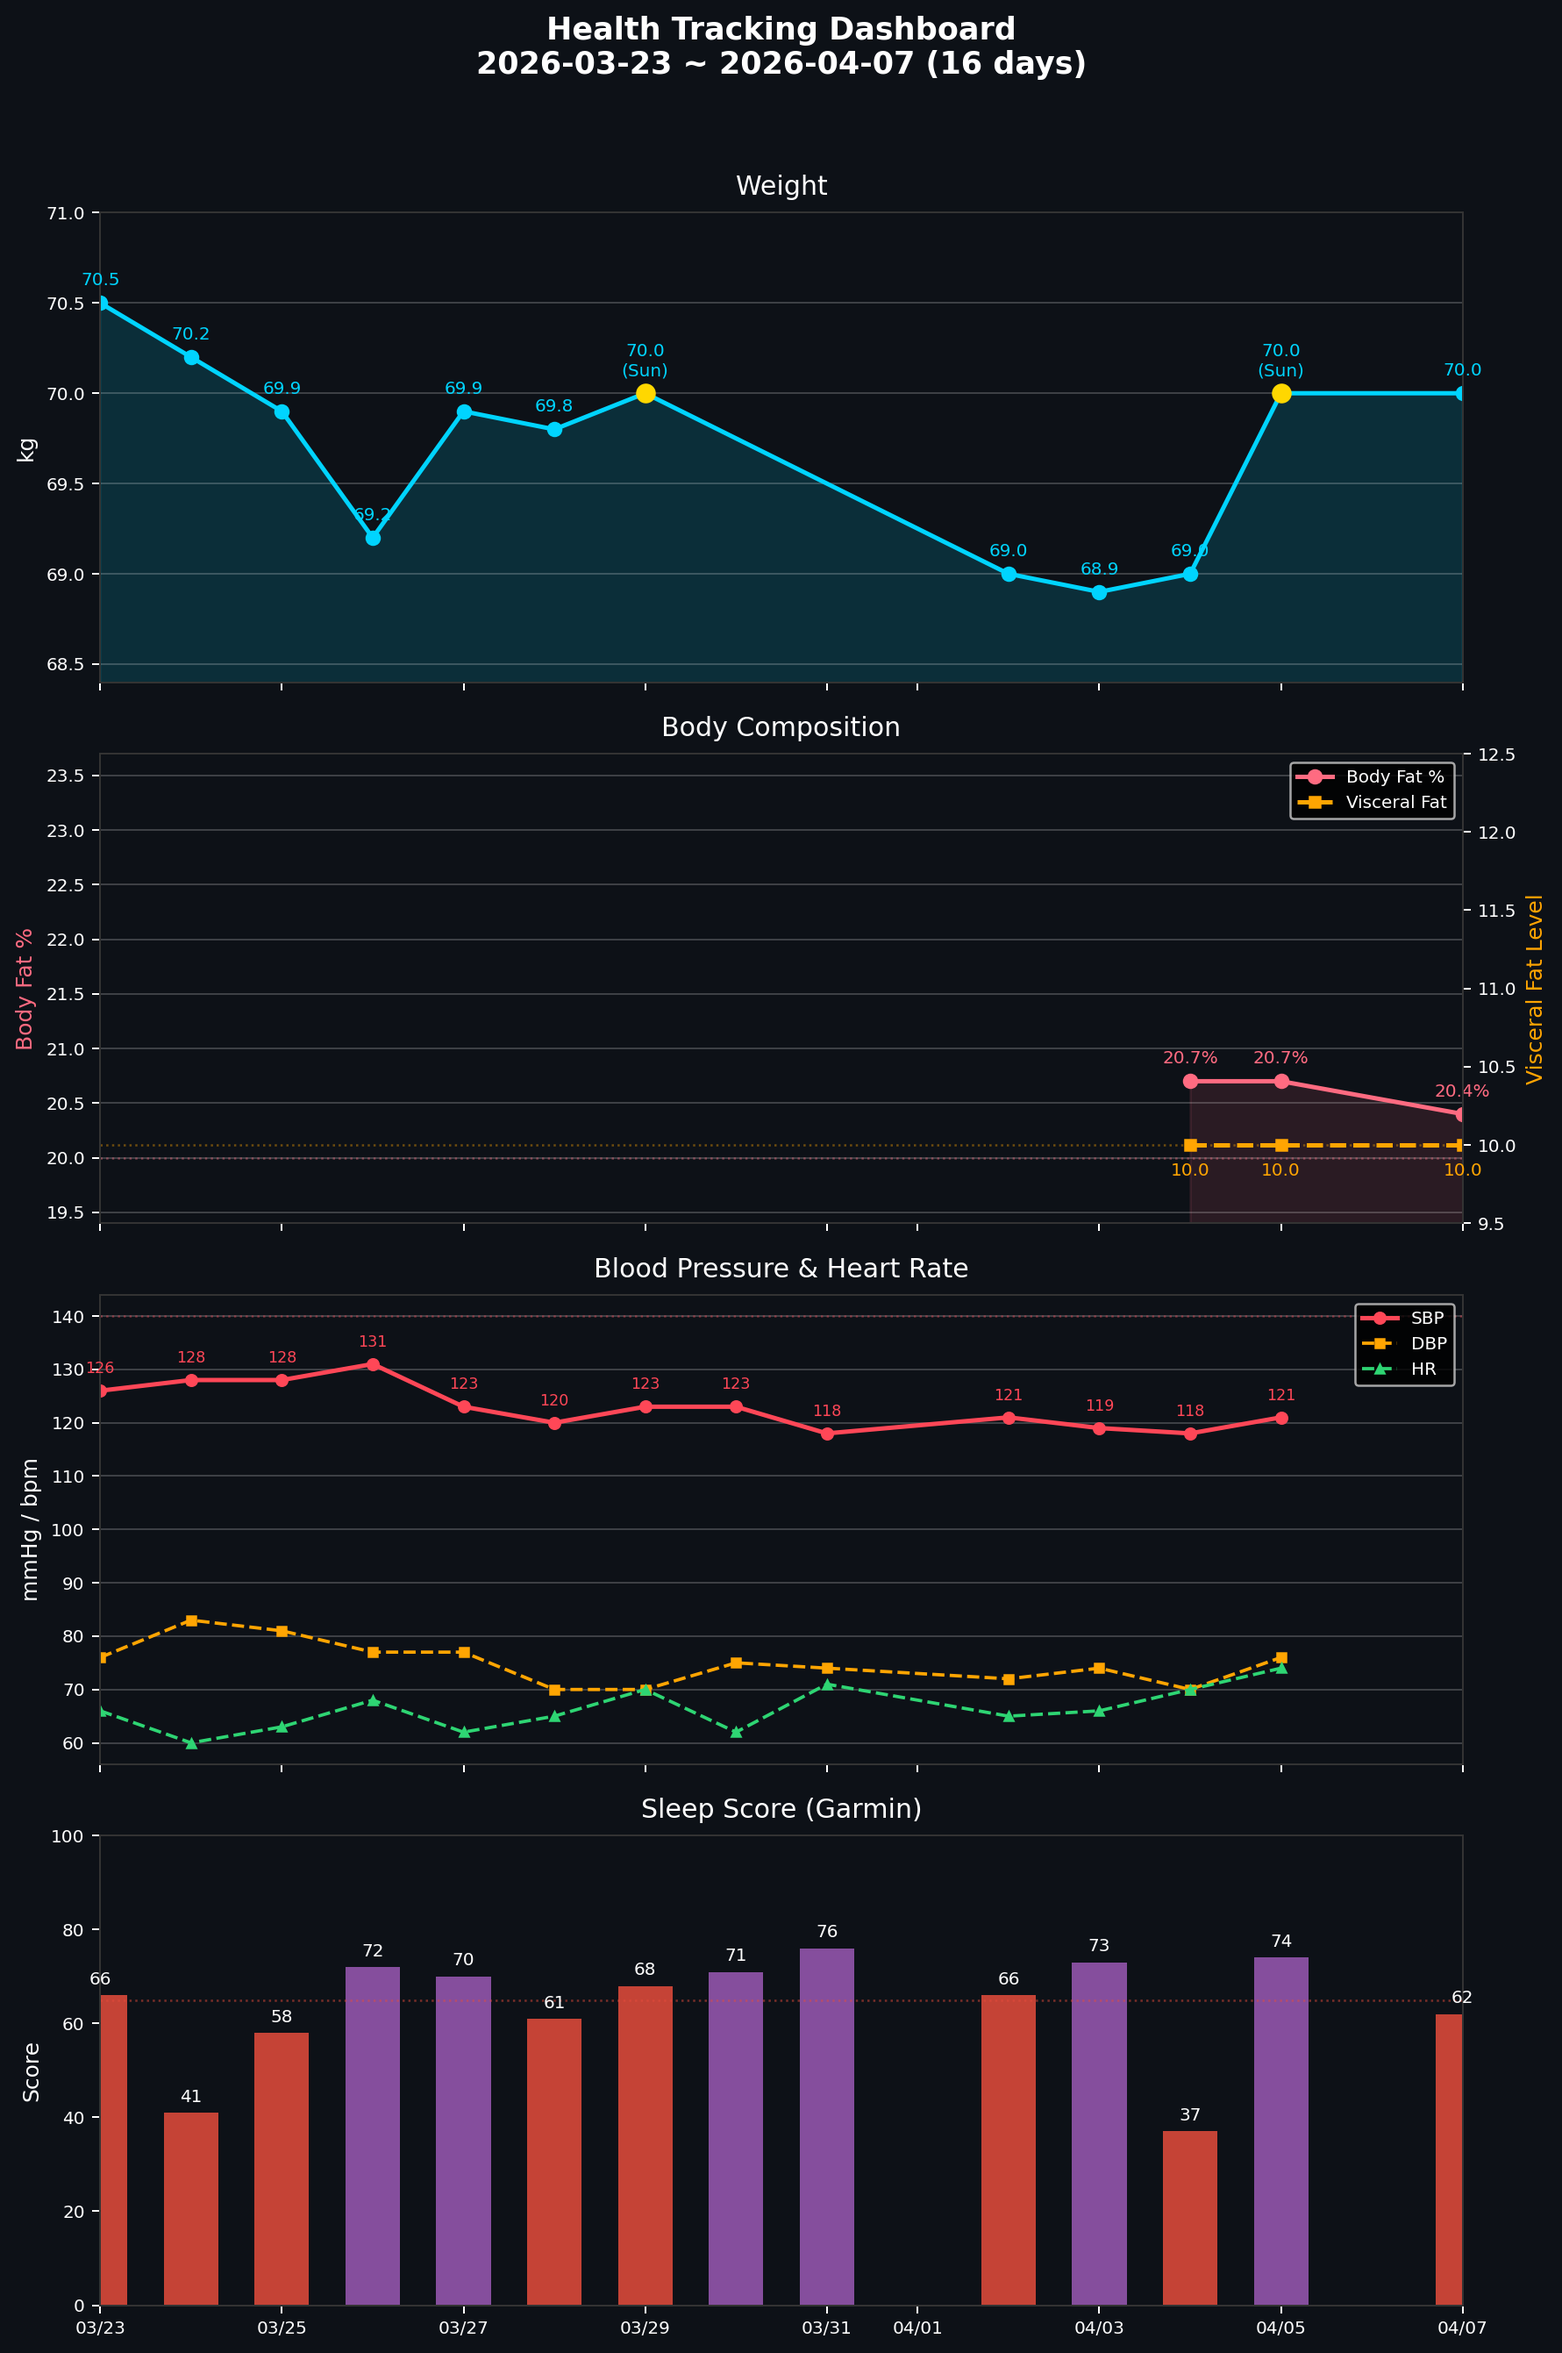
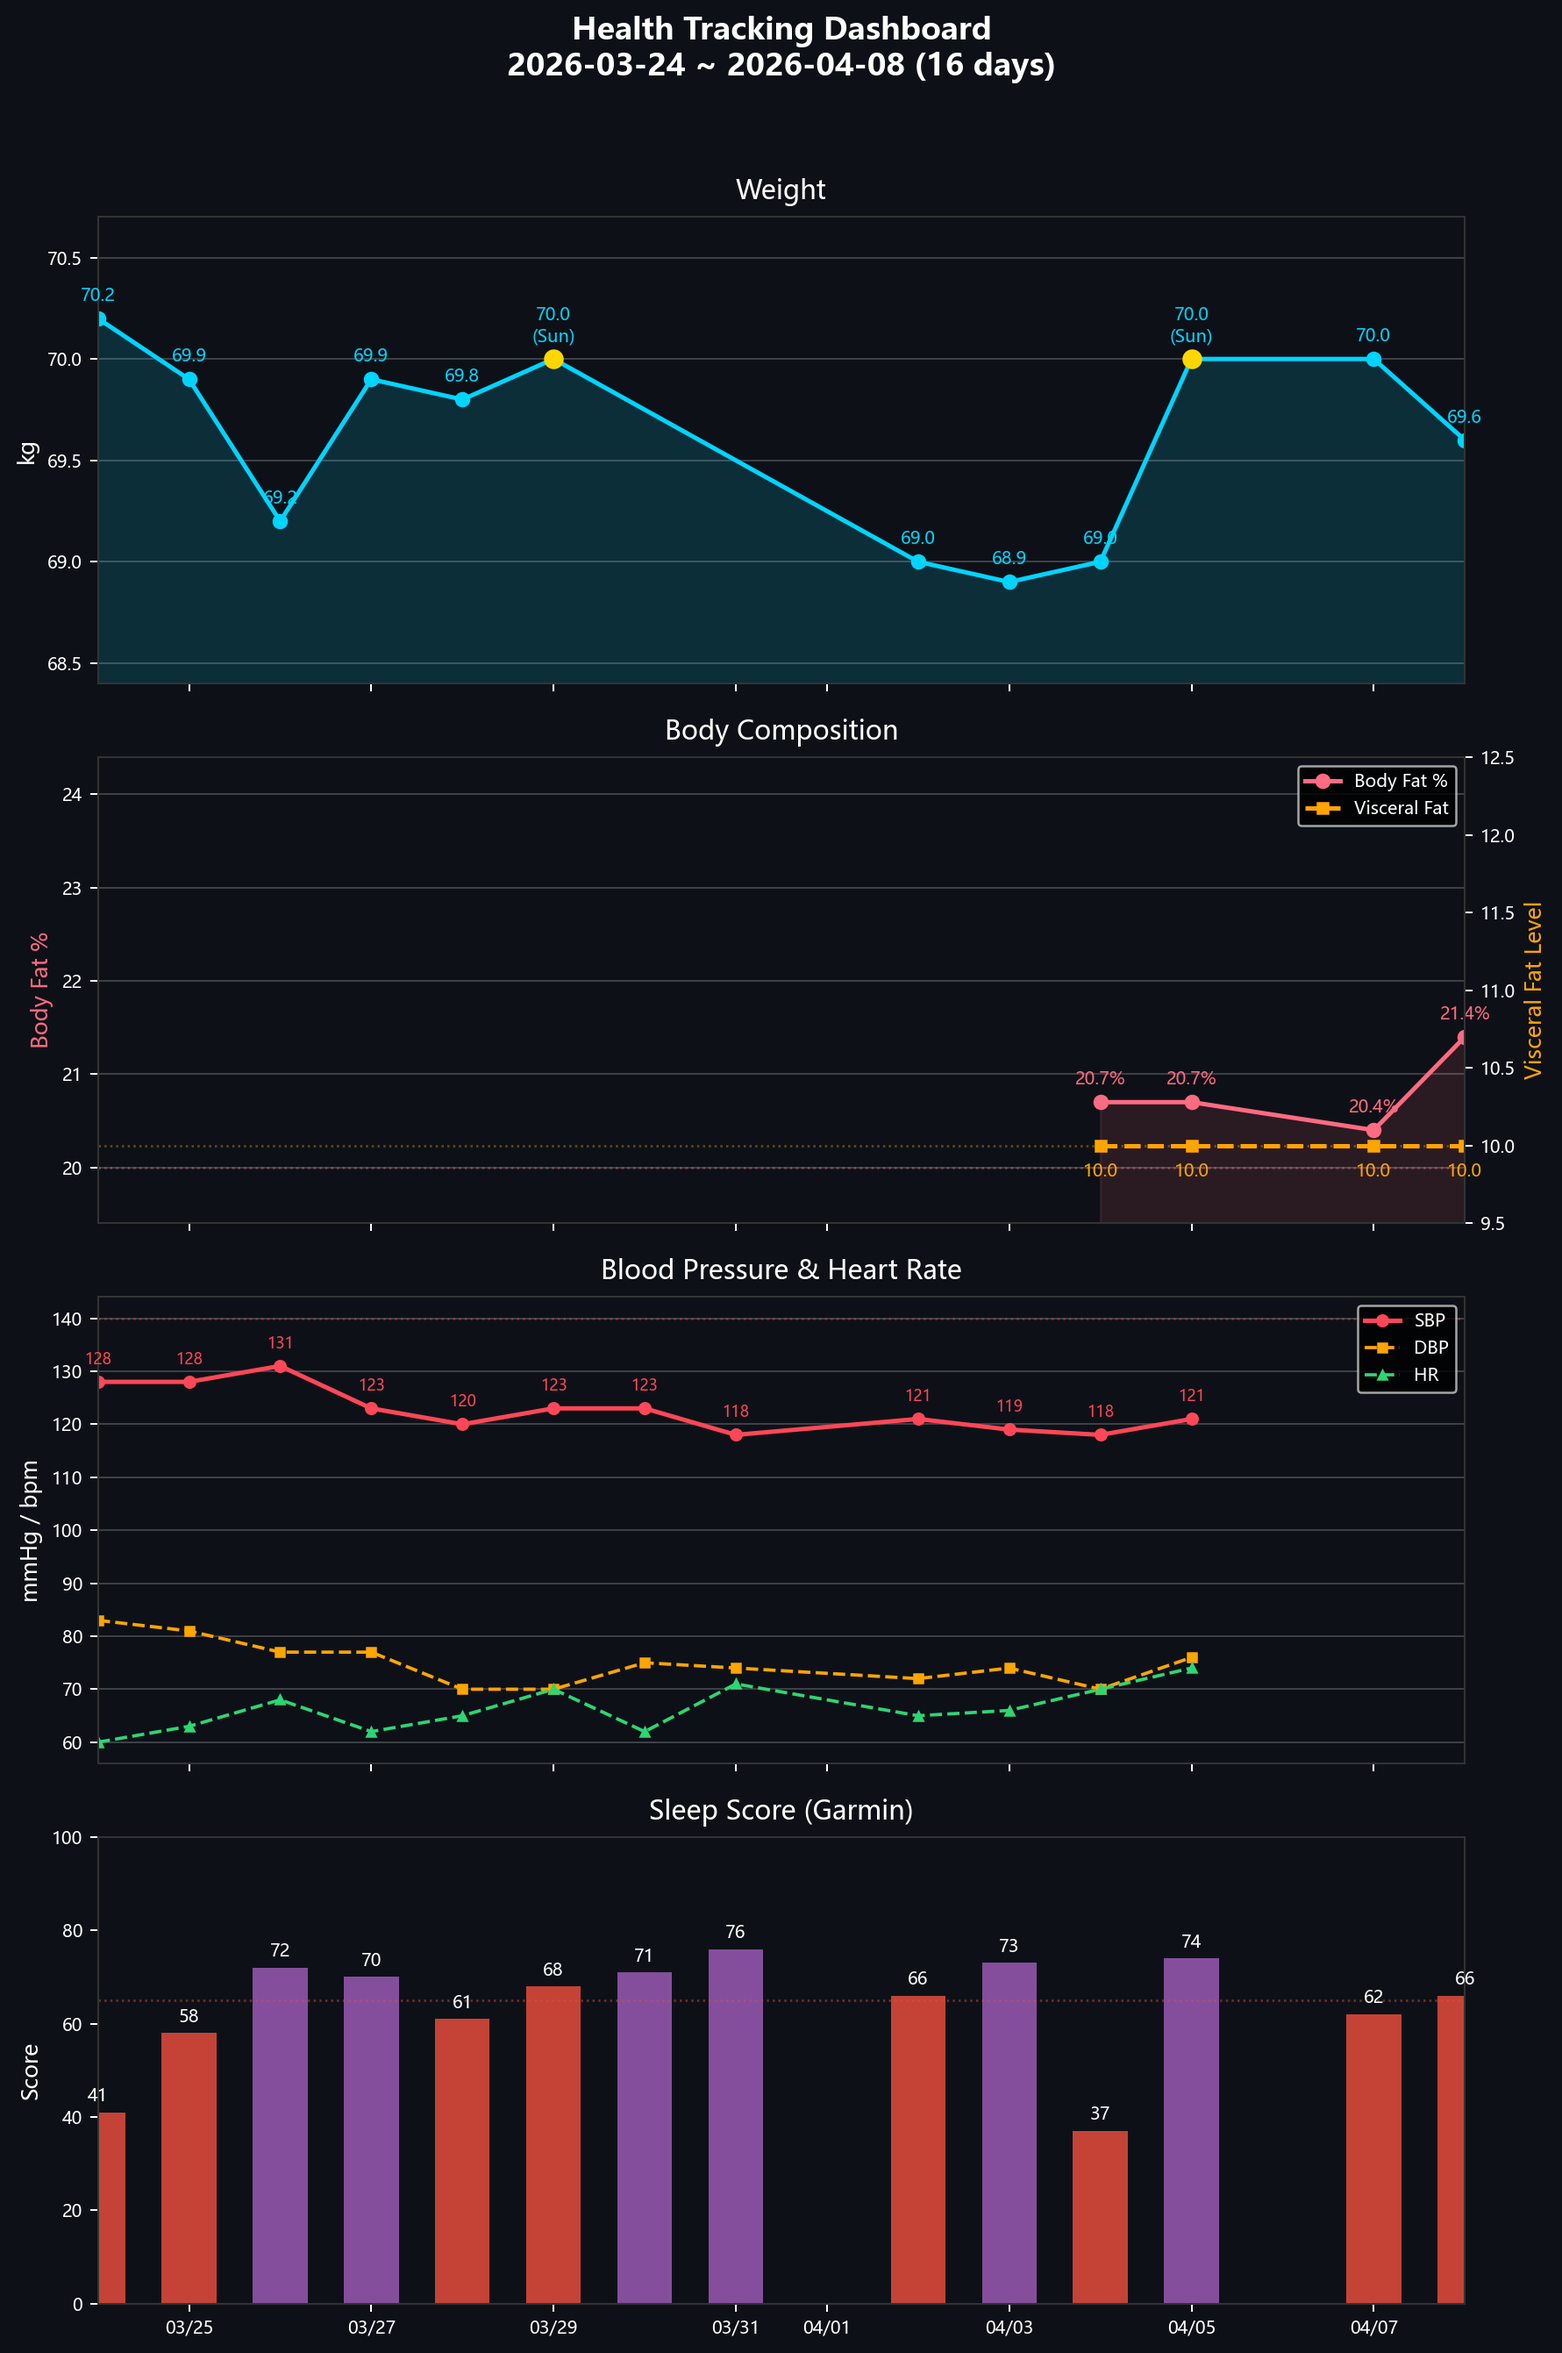
chore: daily check-in 2026-04-08
體重 69.6kg｜體脂 21.4%｜Sleep Score 66｜Body Battery 28

diff --git a/reviews/daily/2026-04-08.md b/reviews/daily/2026-04-08.md
@@ -1,0 +1,64 @@
+# 晨間健康紀錄 — 2026-04-08
+
+*3 分鐘。起床後立即完成。記錄，不分析。*
+
+---
+
+## 體重
+
+**今日：69.6 kg**
+**體脂率：21.4 %**
+**內臟脂肪等級：10**
+
+*每週日早晨為正式紀錄（排尿後、進食前）。其他日可選填。*
+
+---
+
+## 血壓（晨間）
+
+*起床後 1 小時內，上完廁所、進食前。坐下安靜 5 分鐘，連量兩次取第二次。*
+
+| 次數 | 收縮壓 | 舒張壓 | 心率 |
+|------|--------|--------|------|
+| 第一次 | — | — | — |
+| 第二次 | — | — | — |
+
+*今日未量血壓。*
+
+---
+
+## 睡眠狀態
+
+**實際就寢：** 22:51
+**實際起床：** 06:24
+**中途醒來：** 次數：1 / 原因：N/A
+**Garmin Sleep Score：** 66 / 100
+**Garmin Body Battery 起床值：** 28
+**主觀恢復感：** 3 / 5（1=極度疲憊, 5=精力充沛）
+
+*Sleep Score < 65 或 Body Battery < 50 連續三天 → 重新檢視睡眠修復方案。*
+
+---
+
+## 身體信號
+
+*任何張力、疼痛、疲勞、異常 — 或「清」。記位置、性質、強度。*
+
+| 部位 | 性質 | 強度 (0-10) |
+|------|------|-------------|
+| 清 | — | — |
+
+---
+
+## 今日計畫速記
+
+- [ ] 飲水：2500cc（17:00 前完成主要量）
+- [ ] 補充品：魚油 ×4 + 酸櫻桃 ×1 + 枸杞茶 20g + 牛蒡茶
+- [ ] 運動：散步
+- [ ] 活動度/伸展：伸展
+
+---
+
+💡 PT 建議：Sleep Score 66、Body Battery 28、主觀恢復 3/5，今日恢復狀態仍偏低。散步和伸展是合適選擇，維持輕鬆節奏（RPE ≤ 3/10），避免高強度訓練。伸展以上交叉鬆動為主（胸椎旋轉、髖屈肌伸展），搭配深呼吸，有助於提升 Body Battery 回復速度。今晚目標 22:30 前入睡。
+
+*Filed: reviews/daily/2026-04-08.md*

diff --git a/reviews/weekly/2026-W15.md b/reviews/weekly/2026-W15.md
@@ -31,9 +31,9 @@
 
 |  | 一 | 二 | 三 | 四 | 五 | 六 | 日 |
 |--|----|----|----|----|----|----|-----|
-| 體重 (kg) | | 70 | | | | | |
-| 體脂率 (%) | | 20.4 | | | | | |
-| 內臟脂肪 | | 10 | | | | | |
+| 體重 (kg) | | 70 | 69.6 | | | | |
+| 體脂率 (%) | | 20.4 | 21.4 | | | | |
+| 內臟脂肪 | | 10 | 10 | | | | |
 
 **週日正式值：** _____ kg｜體脂率：_____%｜內臟脂肪：_____
 **上週日正式值：** _____ kg｜體脂率：_____%｜內臟脂肪：_____
@@ -47,7 +47,7 @@
 |------|--------|--------|------|
 | 04/06 (一) | | | |
 | 04/07 (二) | — | — | — |
-| 04/08 (三) | | | |
+| 04/08 (三) | — | — | — |
 | 04/09 (四) | | | |
 | 04/10 (五) | | | |
 | 04/11 (六) | | | |
@@ -65,7 +65,7 @@
 |------|------|------|--------|-------------|--------------|----------|
 | 04/06 (一) | | | | | | |
 | 04/07 (二) | 00:52 | 06:26 | 1（處理事情） | 62 | 43 | 3 |
-| 04/08 (三) | | | | | | |
+| 04/08 (三) | 22:51 | 06:24 | 1（N/A） | 66 | 28 | 3 |
 | 04/09 (四) | | | | | | |
 | 04/10 (五) | | | | | | |
 | 04/11 (六) | | | | | | |
@@ -85,7 +85,7 @@
 
 | 信號（部位+性質） | 出現天數 | 平均強度 | 趨勢（↑↓→） | 備註 |
 |-------------------|----------|----------|-------------|------|
-| 清 | 1 | — | — | 04/07 |
+| 清 | 2 | — | — | 04/07, 04/08 |
 
 **反覆出現（≥ 3 天）：** 無
 
@@ -109,6 +109,7 @@
 | 日期 | 運動內容（含組數/時間） |
 |------|------------------------|
 | 04/07 (二) | 15分鐘快走 ×2、伸展 |
+| 04/08 (三) | 散步、伸展 |
 
 ---
 
